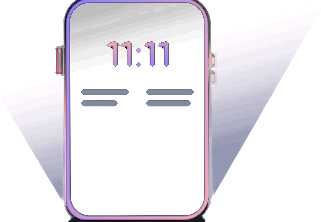
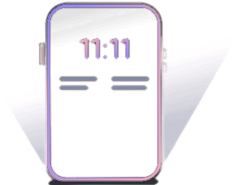
fix(theme): graphite CTA, lifted round buttons, smaller art
Three things the metal ground exposed. Flat ink for the primary pill sat
on it like a hole: the pill is graphite now, a short vertical gradient
with a light lip along the top and its own shadow. The round back and
close buttons had all but vanished — their wrapper clipped overflow for
the on-image blur, and iOS clipped the shadow with it; only the image
variant clips now, the base one keeps a deeper shadow and a hairline.

The profile's illustrations are re-cut with a lighter edge treatment and
a gentle downsample, and drawn smaller inside their tiles, where the
screenshot-cut edges no longer show.

Changed region(s): [[0.0864, 0.0, 0.893, 1.0], [0.3169, 0.1622, 0.5473, 0.3243]]

diff --git a/apps/mobile/src/theme/tokens.ts b/apps/mobile/src/theme/tokens.ts
@@ -76,7 +76,15 @@ export const baseSurface = {
   textSecondary: palette.ink300,
   textTertiary: palette.slate300,
 
+  /**
+   * The primary pill. Flat ink sat on the metal like a hole; the pill is
+   * graphite now — a short vertical gradient with a light lip at the top,
+   * the way a metal key catches the light. `ctaBg` remains the solid the
+   * badge, the icon tile and anything too small for a gradient use.
+   */
   ctaBg: palette.ink900,
+  ctaGradient: [palette.ink400, palette.ink900] as const,
+  ctaLip: "rgba(255,255,255,0.28)",
   ctaFg: palette.white,
   ctaDisabledBg: palette.grey400,
   ctaDisabledFg: palette.white,
@@ -191,13 +199,24 @@ export const shadow = {
     shadowOffset: { width: 0, height: 8 },
     elevation: 5,
   },
-  /** Tighter, for a 52 px button. */
+  /**
+   * Tighter, for a 52 px round button. Deeper than the card's: a white disc
+   * on a white-ish metal has nothing but its shadow to be seen by.
+   */
   button: {
     shadowColor: palette.ink900,
-    shadowOpacity: 0.12,
-    shadowRadius: 10,
-    shadowOffset: { width: 0, height: 4 },
-    elevation: 4,
+    shadowOpacity: 0.22,
+    shadowRadius: 12,
+    shadowOffset: { width: 0, height: 6 },
+    elevation: 6,
+  },
+  /** The primary pill's own lift. */
+  cta: {
+    shadowColor: palette.ink900,
+    shadowOpacity: 0.28,
+    shadowRadius: 14,
+    shadowOffset: { width: 0, height: 8 },
+    elevation: 6,
   },
 } as const;
 

diff --git a/apps/mobile/src/ui/Button.tsx b/apps/mobile/src/ui/Button.tsx
@@ -20,9 +20,15 @@ const useStyles = makeStyles((t) => ({
     borderRadius: t.radius.pill,
     alignItems: "center",
     justifyContent: "center",
-    overflow: "hidden",
   },
-  solid: { backgroundColor: t.base.ctaBg },
+  solid: { backgroundColor: t.base.ctaBg, ...t.shadow.cta },
+  /** The graphite fill, with the light lip along the top edge. */
+  solidFill: {
+    ...fill,
+    borderTopWidth: t.border.hairline,
+    borderTopColor: t.base.ctaLip,
+    borderRadius: t.radius.pill,
+  },
   danger: { backgroundColor: t.base.danger },
   disabled: { backgroundColor: t.base.ctaDisabledBg },
   gradientFill: {
@@ -108,6 +114,13 @@ export function Button({
           start={t.gradient.horizontal.start}
           end={t.gradient.horizontal.end}
           style={s.gradientFill}
+        />
+      ) : variant === "primary" && !inert ? (
+        <LinearGradient
+          colors={[...t.base.ctaGradient]}
+          start={t.gradient.vertical.start}
+          end={t.gradient.vertical.end}
+          style={s.solidFill}
         />
       ) : null}
       {loading ? (

diff --git a/apps/mobile/src/ui/IconCircle.tsx b/apps/mobile/src/ui/IconCircle.tsx
@@ -7,17 +7,22 @@ import { makeStyles, useTheme } from "../theme";
 const useStyles = makeStyles((t) => ({
   wrap: {
     borderRadius: t.radius.pill,
-    overflow: "hidden",
     alignItems: "center",
     justifyContent: "center",
   },
   onImage: {
+    // The blur has to be clipped to the disc; the base variant must not
+    // be, or iOS clips its shadow with it and the button disappears into
+    // the metal.
+    overflow: "hidden",
     borderWidth: t.border.hairline,
     borderColor: t.image.chromeBorder,
     backgroundColor: t.image.chrome,
   },
   onBase: {
     backgroundColor: t.base.bgElevated,
+    borderWidth: t.border.hairline,
+    borderColor: t.base.glassBorder,
     ...t.shadow.button,
   },
   blur: {

diff --git a/apps/mobile/src/features/profile/components/FeatureGrid.tsx b/apps/mobile/src/features/profile/components/FeatureGrid.tsx
@@ -15,9 +15,16 @@ const useStyles = makeStyles((t) => ({
     ...t.shadow.card,
   },
   title: { marginBottom: t.space.xs },
+  /**
+   * The drawing sits inside a margin rather than filling the tile: at full
+   * bleed the screenshot-cut art showed its edges, and the reference gives
+   * each object air on every side anyway.
+   */
   art: {
     flex: 1,
     width: "100%",
+    marginVertical: t.space.sm,
+    transform: [{ scale: 0.78 }],
   },
   wide: {
     width: "100%",
@@ -27,7 +34,7 @@ const useStyles = makeStyles((t) => ({
     height: 150,
   },
   wideCopy: { flex: 1, gap: t.space.xxs },
-  wideArt: { width: 130, height: 110 },
+  wideArt: { width: 104, height: 88 },
   pressed: { opacity: 0.75 },
 }));
 

diff --git a/apps/mobile/src/features/streak/StreakWeek.tsx b/apps/mobile/src/features/streak/StreakWeek.tsx
@@ -34,9 +34,9 @@ const useStyles = makeStyles((t) => ({
     justifyContent: "center",
   },
   /** The drawn flame is taller than it is wide, and reads bigger. */
-  flameArt: { width: 64, height: 78 },
+  flameArt: { width: 54, height: 66 },
   flameCount: { position: "absolute", bottom: 6 },
-  flameCountArt: { position: "absolute", bottom: 14 },
+  flameCountArt: { position: "absolute", bottom: 12 },
 }));
 
 export interface StreakWeekProps {

diff --git a/apps/mobile/src/features/profile/components/UnlockBanner.tsx b/apps/mobile/src/features/profile/components/UnlockBanner.tsx
@@ -7,7 +7,7 @@ import { GradientCard, Text } from "../../../ui";
 const useStyles = makeStyles((t) => ({
   row: { flexDirection: "row", alignItems: "center", gap: t.space.md },
   copy: { flex: 1, gap: t.space.xxs },
-  art: { width: 110, height: 78 },
+  art: { width: 96, height: 68 },
 }));
 
 /**
